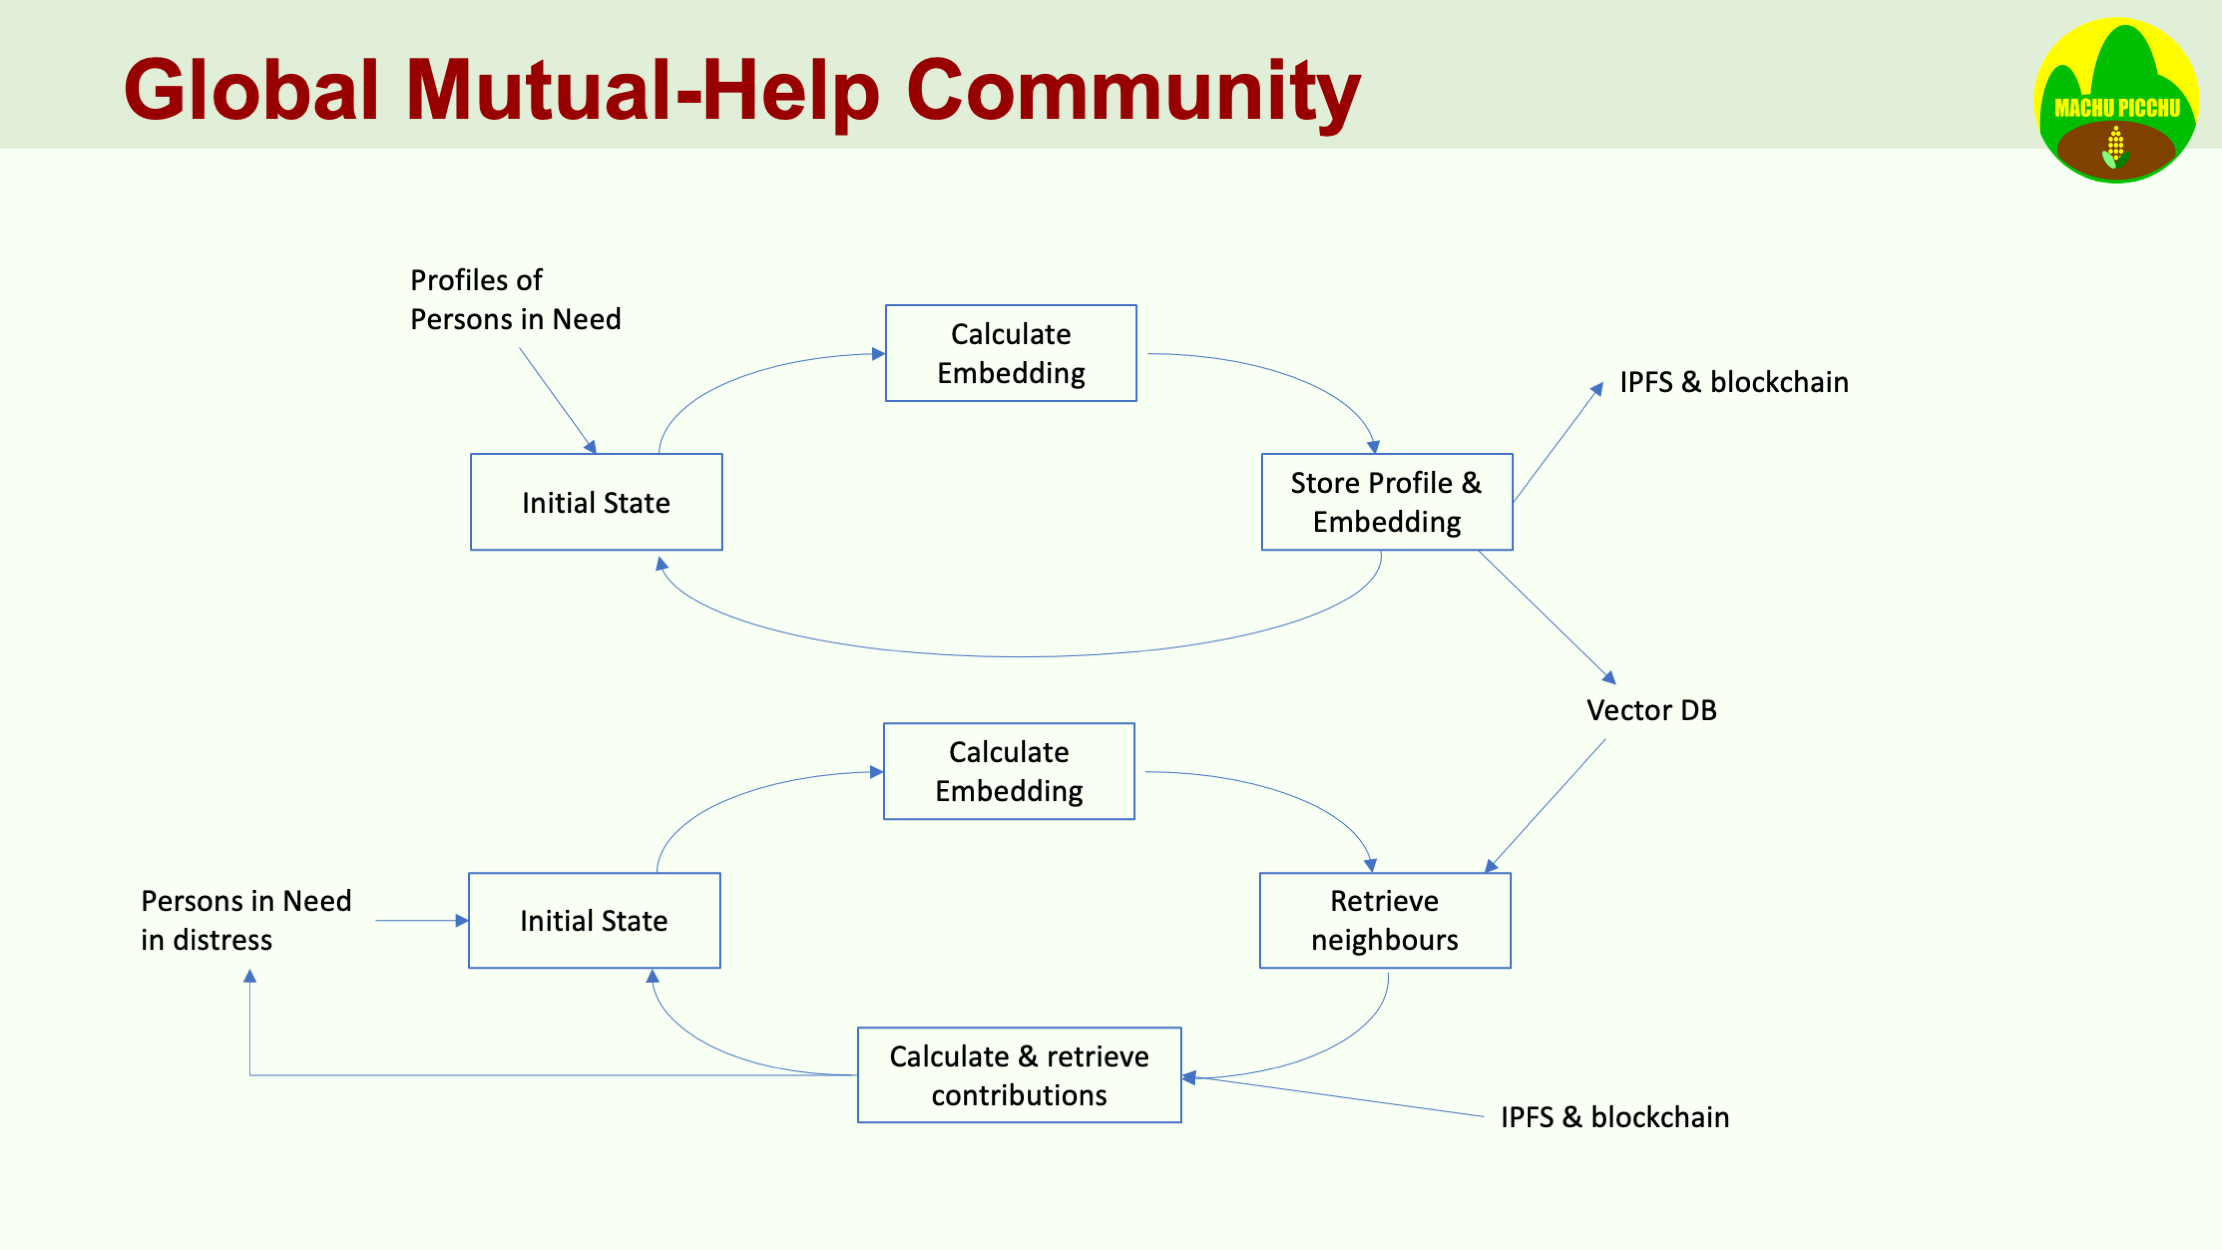
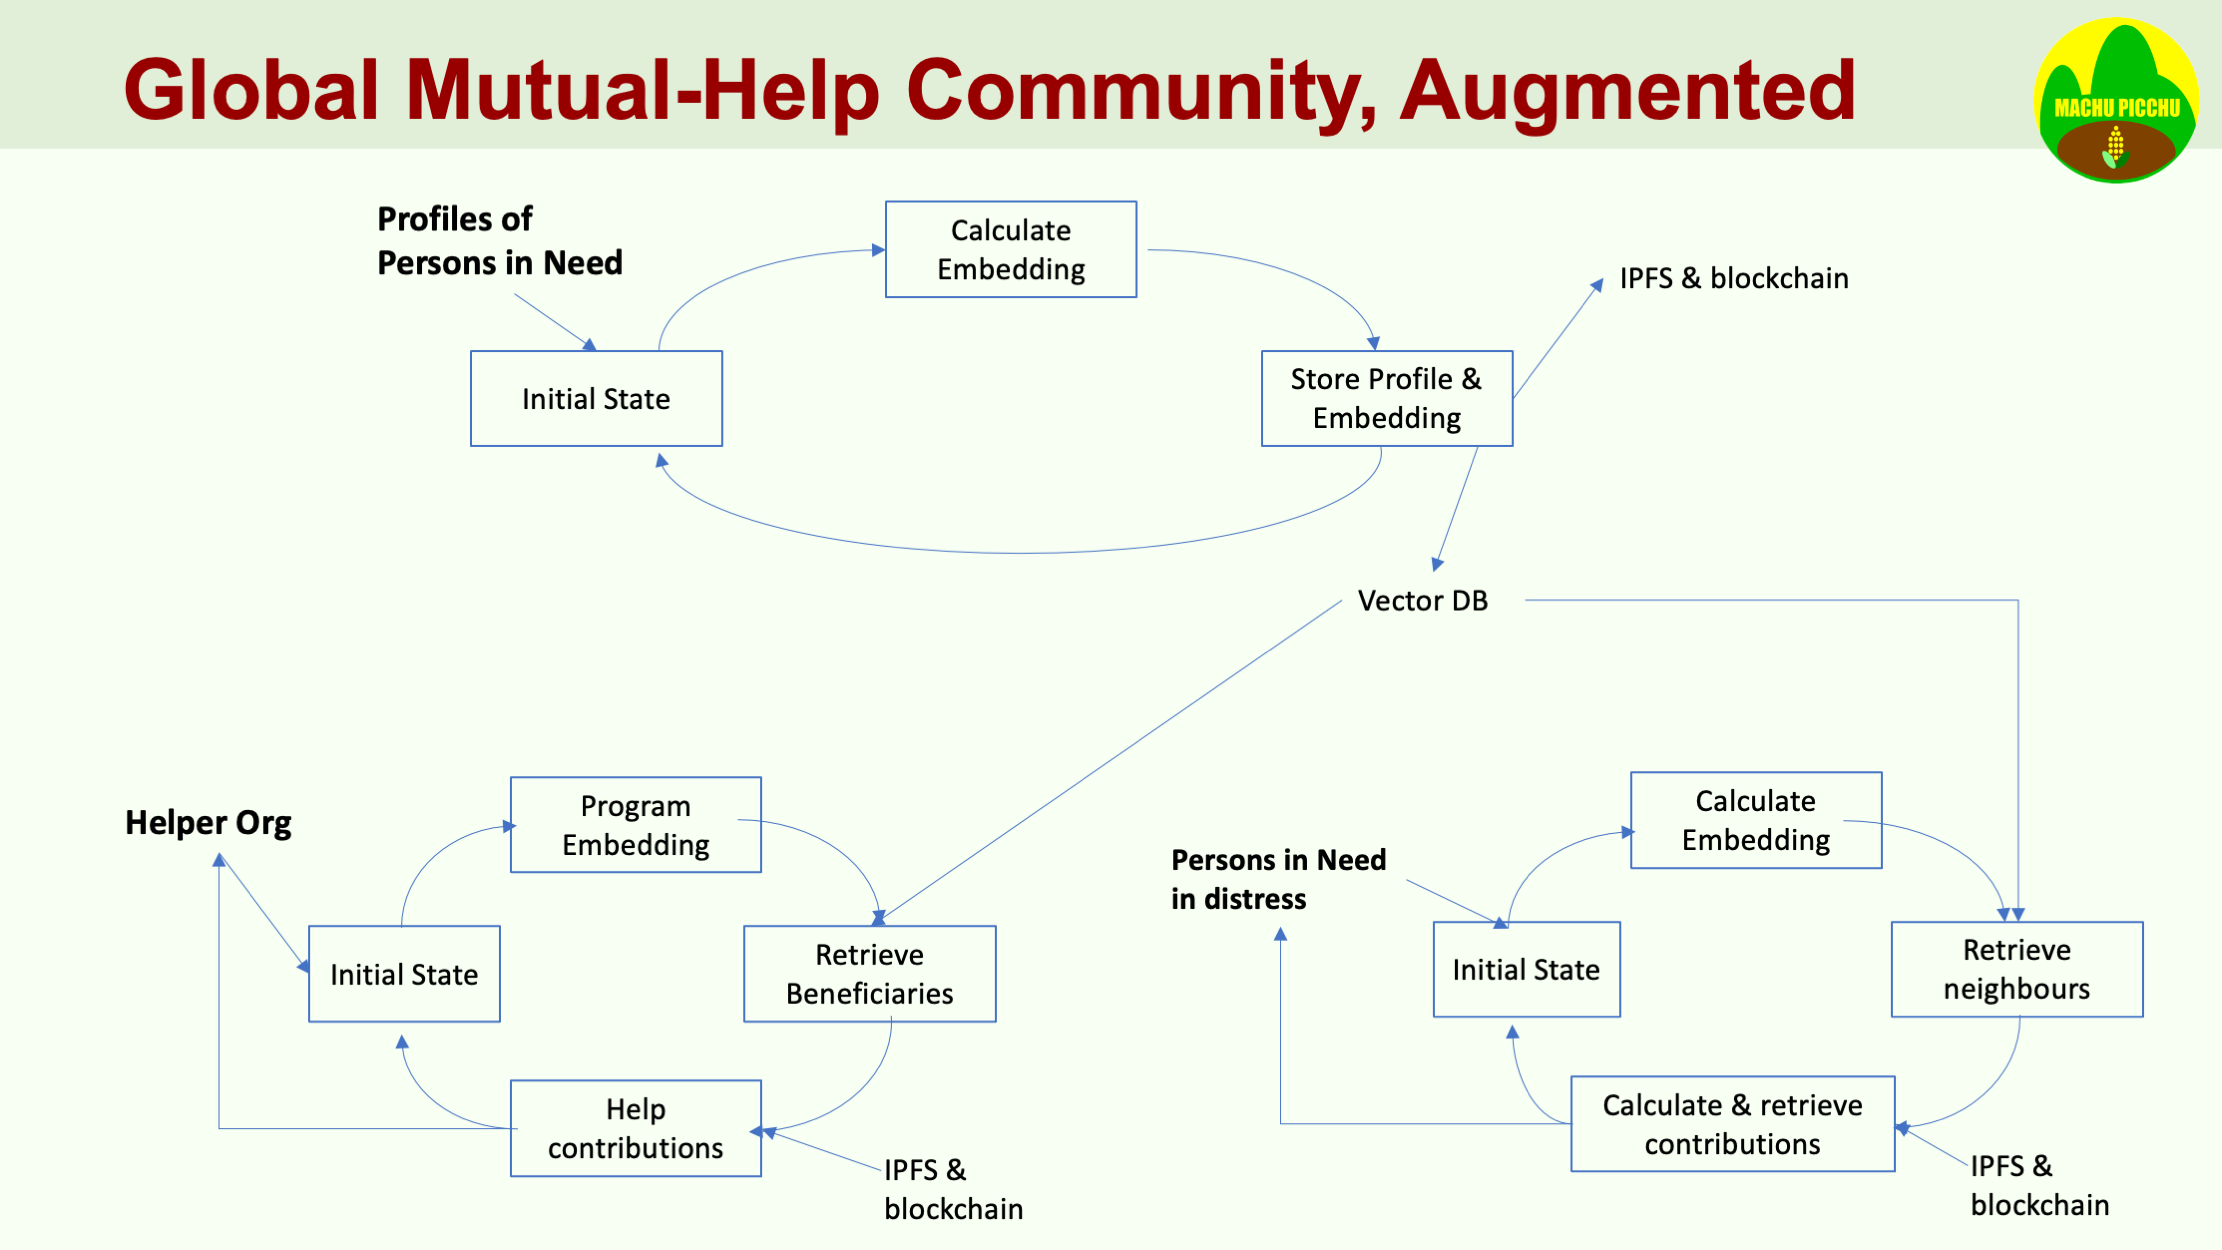
Post-hackathon Adaptations

diff --git a/README.md b/README.md
@@ -16,7 +16,7 @@ This document is a list of scenarios that can support hackathon projects in **ET
 
 The Machu Picchu stories can inspire several competing ETHGlobal projects, where each project will focus on a particular aspect of Machu Picchu as best suits the skills of the team. Machu Picchu is like the Inca citadel of same name, that is made of huge stone blocks tightly fit together. These blocks of stone can be done independently. In past prototypes, Machu Picchu applied tools in DeFi, IPFS, AI, Earth Observation, low-cost Raspberry Pi-style SBCs with AI HATs.
 
-The AI Agents are potentially a cement to fasten the Machu Picchu blocks together. In this hackathon each project may choose to address a subset of Machu Picchu functions that best suits the skills of the team yet to be built. Even if you prefer doing a hackathon project alone around Machu Picchu, you are heartily welcome.
+The AI Agents are potentially Machu Picchu blocks. In this hackathon each project may choose to address a subset of Machu Picchu functions that best suits the skills of the team yet to be built. Even if you prefer doing a hackathon project alone around Machu Picchu, you are heartily welcome.
 
 The following resources explain the story told by Machu Picchu and the technologies that have been already prototyped:
 1. A 10' video of overall Machu Picchu: https://youtu.be/z1ylfi60ES0
@@ -25,7 +25,7 @@ The following resources explain the story told by Machu Picchu and the technolog
 4. A Raspberry Pi serving as IPFS storage: https://kvutien-yes.medium.com/machu-picchu-persistent-ipfs-node-on-raspberry-pi3-part-1-fb6fd67e421a
 5. A simple illustration of Earth Observation to monitor crops: https://kvutien-yes.medium.com/ninja-code-make-a-satellite-mosaic-image-with-the-least-clouds-possible-8a25759f875b
 
-#	Principles of the Mutual-help Community
+##	Principles of the Mutual-Help Community
 The risk sharing scenario is as follows:
 - Ms. *Lakshmi Devi* lives in Tamil Nadu, near Melur. She is married with 5 kids. She cultivates a small piece of land and has some poultry.
 - She publishes her profile in free form, with the help of DHAN Foundation (.https://dhan.org/). Her profile is embedded as a vector; the full text and the vector are stored on IPFS and the CID (the IPFS hash) is stored on the blockchain. Think of it like your LinkedIn profile. 🙂
@@ -42,7 +42,7 @@ However, if she declares a distress and calls for help, her situation is assesse
 - This additional help is taken from the risk-sharing pool of other participants in the community. Each contribution is determined by the scalar distance of their embedding vectors to the vector of Ms. *Lakshmi Devi*. The agreement is as follows: each of the 50 nearest contributes 1% of the amount, each of the 100 next nearest contributes 0.5% of the amount. The amount may be less if the shares of all the participants are too low.
 - There are measures to encourage long term participation and avoid cheats when people only start to contribute in the few months preceding the declaration of their distress. This can be simulated and evaluated during a hackathon project.
 	
-#	List of possible projects
+##	List of possible projects
 In general, we could implement projects along the following workflow:
 - start with a freeform list of profiles of small farmers worldwide. An initial version has been started: https://github.com/kvutien/Doc-Simulated_profiles_Persons_in_Need
 - use an embedding tool like Weaviate or VoyageAI to generate embeddings.
@@ -54,33 +54,41 @@ In general, we could implement projects along the following workflow:
 See an AI example here: https://kvutien-yes.medium.com/hands-on-how-ai-can-help-persons-in-need-0fc5ca8e49a8
 
 Some possible projects in the hackathon could be:
-1. **Project "Wonderful Life"**: Simulate all functions as placeholders and focus on the AI agent that cements the blocks together.
-2. **Project "Three Musketeers"**: An agent that uses AI to simulate free text profiles of persons in need, living in various countries in the world. It uses an SLM to create embeddings and stores the profiles + embeddings on IPFS and their CID hashes on blockchain
+1. **Project "Wonderful Life"**: An agent that uses AI to simulate free text profiles of persons in need, living in various countries in the world. It uses an SLM to create embeddings and stores the profiles + embeddings on IPFS and their CID hashes on blockchain. Given a Program sheet of an international Helper Program, it finds all potential beneficiaries of such Helper Program.
+2. **Project "Three Musketeers"**: TO BE DEFINED
 3. **Project "Good Samaritan"**: An agent that would be given a person in need suffering a crop loss requesting an amount of ERC20 tokens, retrieve its CID on the blockchain, read on IPFS the profile + embedding of this person, find 100 closest profiles, transfer from each wallet of these persons 1/100 of the ERC20 amount needed to help the person in need
 4. **Project "Robin Hood"**: An agent that simulates at any moment the potential maximum entitlement of a person contributing to the risk-sharing pool. The results are used to define the risk-sharing agreement. In operation this evaluation of potential help can be used to motivate the persons to join.
 5. **Project "Knights of the Round Table"**: An agent that would use the quick Google Earth Engine webapp from the code of illustration 5 above and decide on the reality of a crop loss and a financial distress to trigger help.
 	
-#	Project "*Wonderful Life*": Simulated Mutual-Help Community
+##	Project "*Wonderful Life*": Simulated Mutual-Help Community
 This project has its name from the 1946 movie of Frank Capra https://en.wikipedia.org/wiki/It%27s_a_Wonderful_Life. 
 
 It focuses on building the overall cement that link the blocks together. This means building the transition tree, setting up live interfaces between the Agents and their plugins, the Clients (distress listener, blockchain), the database Adaptors (vector database, IPFS). The internals of all functions are simulated enough to action the state transitions and the actions.
-- To be further detailed with better knowledge of the agent customization mechanisms of Eliza framework
+
 ![Mutual Help](./images/1-Mutual-Help_Community.png)
 
-#	Project "*Three Musketeers*": Profiles Creation, Embedding and Storage
-This project has its name from the French novel of the same name https://youtu.be/if4AL4fXrT8. Their famous motto is "*All for one, and one for all*"
-
-The focus of this project is on the database adapters, IPFS and vector database, as well as on storing the IPFS hash (the CID) on the blockchain).
+The focus of this project is on the database adapters, IPFS and vector database, as well as on storing the IPFS hash (the CID) on the blockchain). In the limits of the hackathon, we implement only the Helper Org part.
 - We read a profile from a text file
   - Bonus: Eventually we do some magic AI on the profile to find which blockchain account it is associated to. This will be needed when Machu Picchu will use Account Abstraction, but this phase can be simulated in the current hackathon.
   - Bonus: If time allows, we create the account if it doesn't exist. This means that we do the Account Abstraction onboarding step. But this phase can be simulated in the current hackathon.
   - Bonus: potentially in the future we can even use AI Speech-To-Text to write the text of the profile. It is anyhow in free form.
-- We do embeddings of the profile. Eventually we do some magic AI on the profile (I don't know yet what magic 😉) before doing the embeddings.
+- We do embeddings of the profile. In the future we do some magic AI on the profile (I don't know yet what magic 😉) before doing the embeddings.
 - We store the whole on IPFS and receive back the CID (the IPFS hash) of this person's profile
 - We store the CID on the blockchain account of the person. 
 ![Profile Storage](./images/2-Profile_Storage.png)
 
-#	Project "*Good Samaritan*": Profile Matching, Contribution Retrieval
+In the Helper Org part:
+- We read a Help Program Sheet and embed it.
+- We find all profiles of Persons in Need that are closest to the objectives described in the Program Sheet.
+
+**Cheery on the cake**: we implement a Tweeter agent that discusses with the potential donors. In the future, we will implement a gamification of several parts of the whole process. Humanitarian Aid is done too seriously today because it is centralized in "**serious**" organizations.
+
+##	Project "*Three Musketeers*": Profiles Creation, Embedding and Storage
+This project has its name from the French novel of the same name https://youtu.be/if4AL4fXrT8. Their famous motto is "*All for one, and one for all*"
+
+To be defined… This could be a gamification of the previous project.
+
+##	Project "*Good Samaritan*": Profile Matching, Contribution Retrieval
 This project has its name from the Gospel parable of the Good Samaritan, where a victim of robbers is ignored by important people and helped by a good man https://en.wikipedia.org/wiki/It%27s_a_Wonderful_Life. 
 
 The focus of this project is on the heart of the decentralized risk-sharing. 
@@ -98,7 +106,7 @@ This project applies the following story:
 - For each virtual account, we do a transfer to the account of the person in need.
 
 Bonus: we generate and use a fungible token.
-#	Project "*Robin Hood*": Assistance Entitlement dashboard
+##	Project "*Robin Hood*": Assistance Entitlement dashboard
 This project has its name from the legendary outlaw who stole from the rich to give to the poor, symbolizing the idea of helping those in need, https://en.wikipedia.org/wiki/Robin_Hood. 
 
 The purpose of the agent is to help us determine generally the terms and conditions of the mutual help agreement that will be written on stone in the blockchain. It aims to motivate people to participate and also to avoid misbehaviors. The rough idea is as follows:
@@ -113,7 +121,7 @@ The purpose of the agent is to help us determine generally the terms and conditi
 The agent in this project will use AI to imagine varied contribution behaviors, to evaluate their degree of compliance to solidarity practices, and propose rules to reward well-behaved behaviors and penalize the bad practices.This helps to refine the rules,
 
 The same agent will be used in operations as a dashboard to show people how, in case of crisis, their behaviors will result in community help, to motivate good behaviors.
-#	Project "*Knights of the Round Table*": Loss Simulation & Distress Voting
+##	Project "*Knights of the Round Table*": Loss Simulation & Distress Voting
 This project has its name from the legendary King Arthur and his Knights of the Round Table, symbolizing a diverse group who come together to serve a common purpose, upholding justice and protecting the kingdom https://youtu.be/4Gt99POfaSk. 
 
 The purpose of the agent is to gather a number of persons closest persons to the demander (for example Ms. *Lakshmi Devi*) and ask them to vote whether they agree or not with the actual need. Closeness is measured by the scalar distance of the embeddings.
